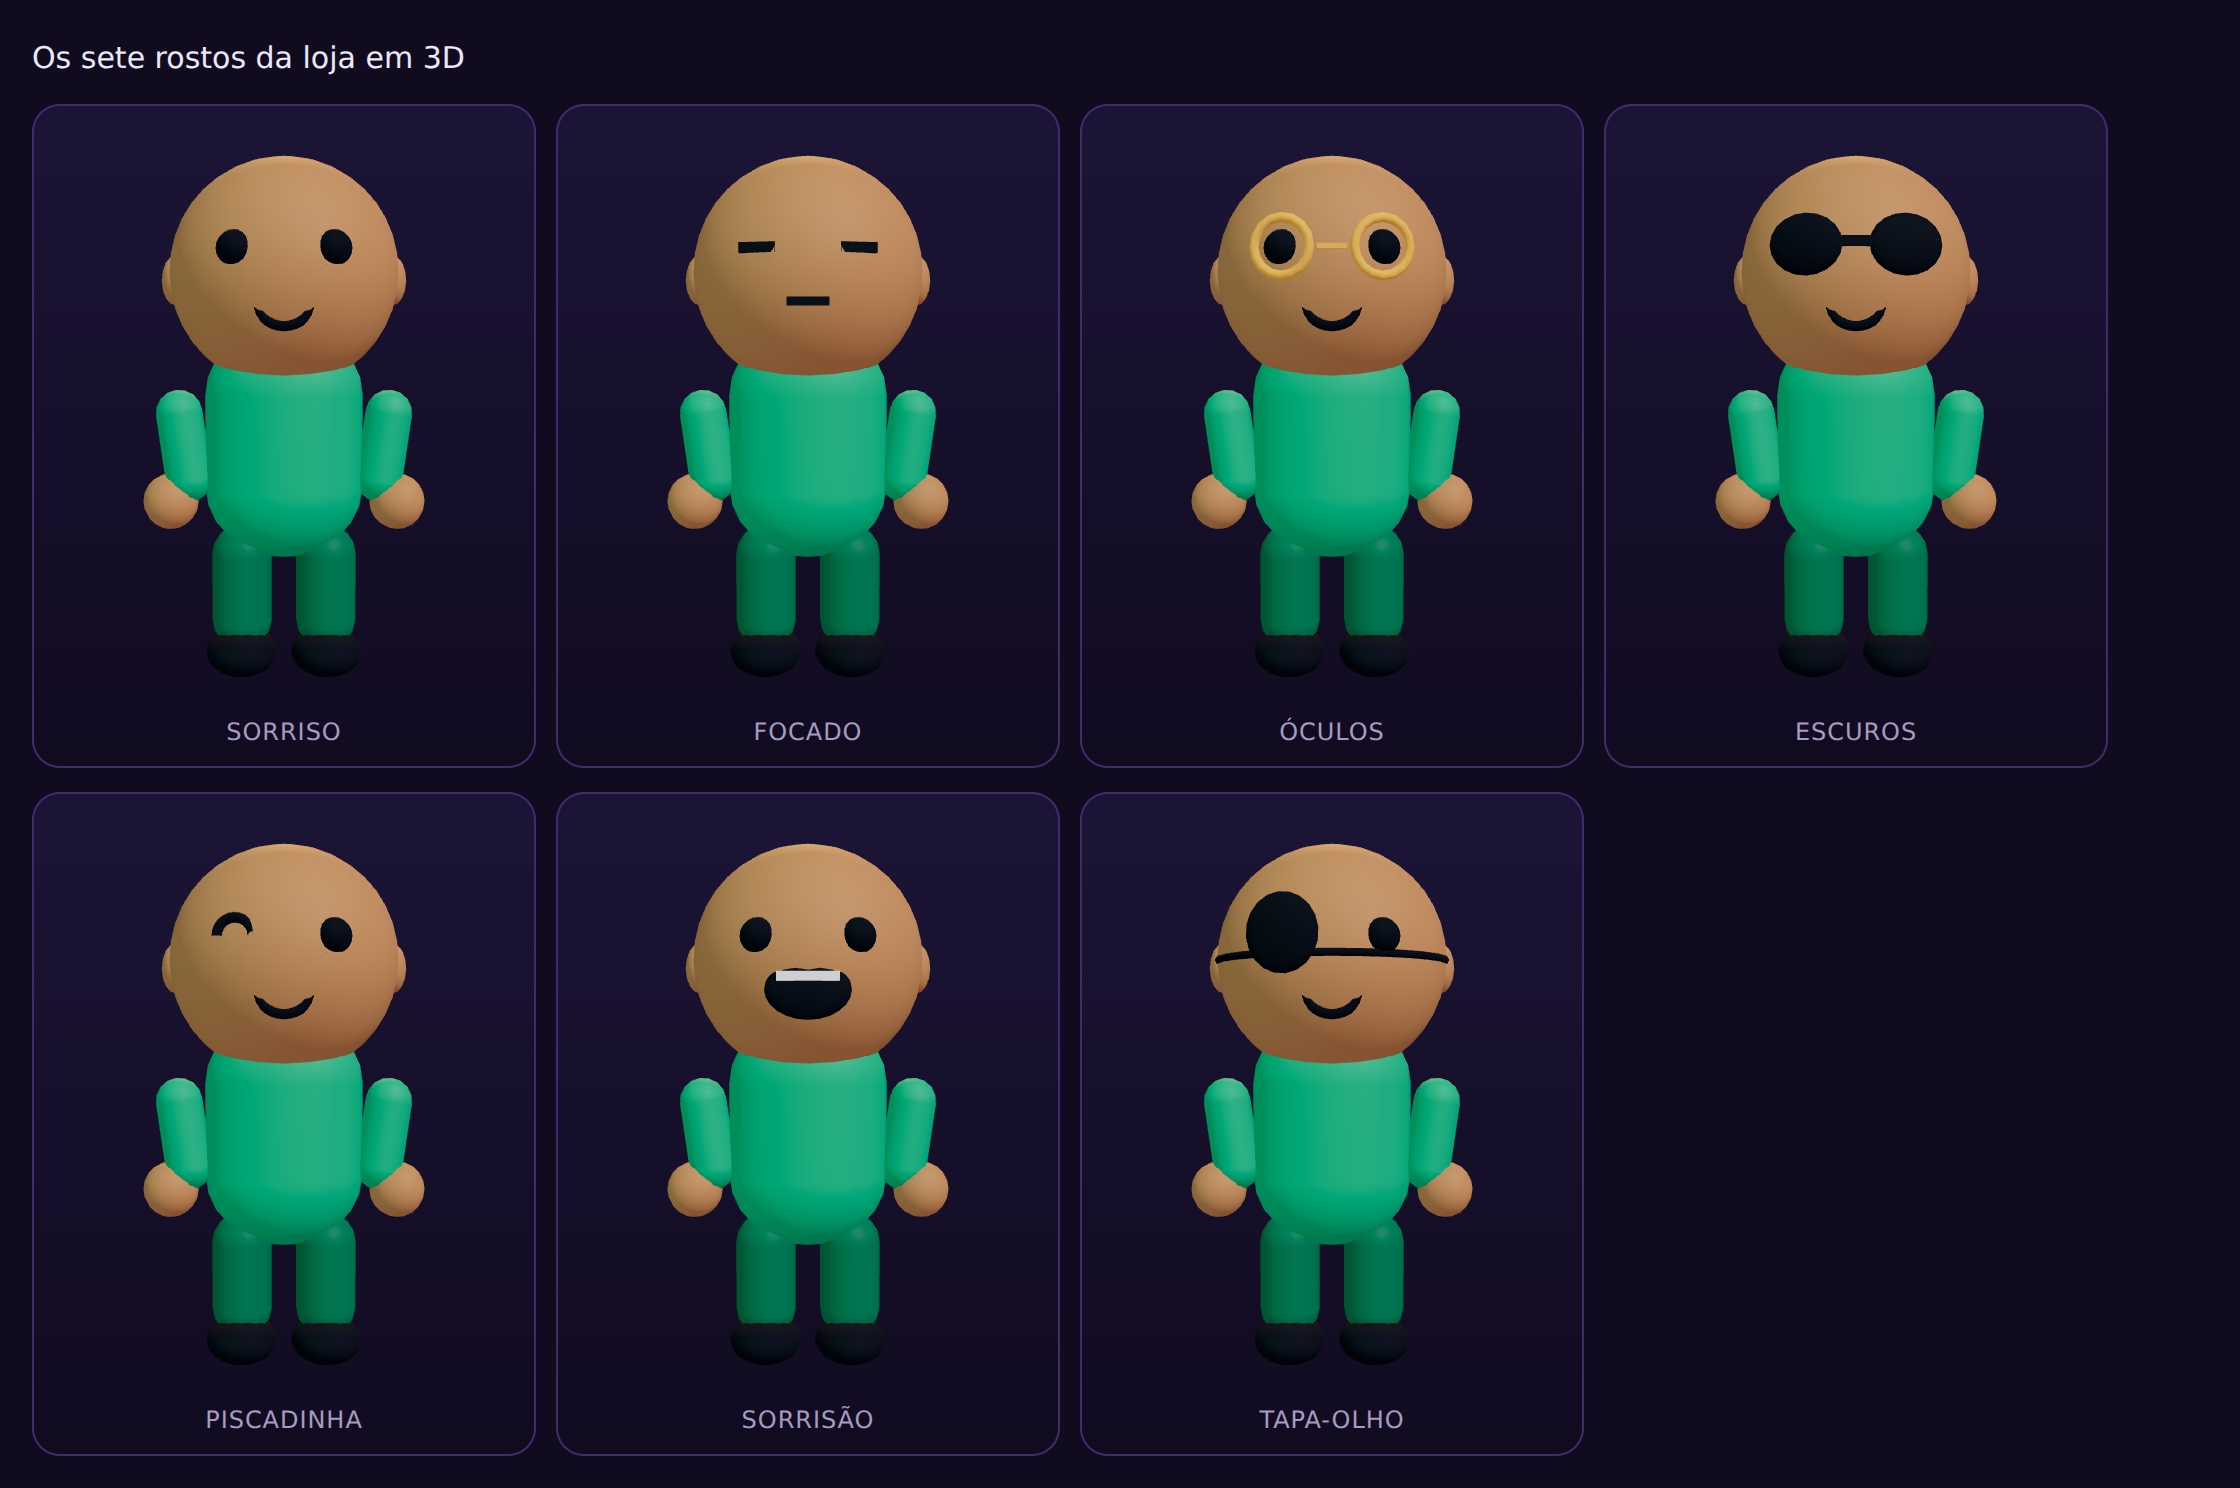
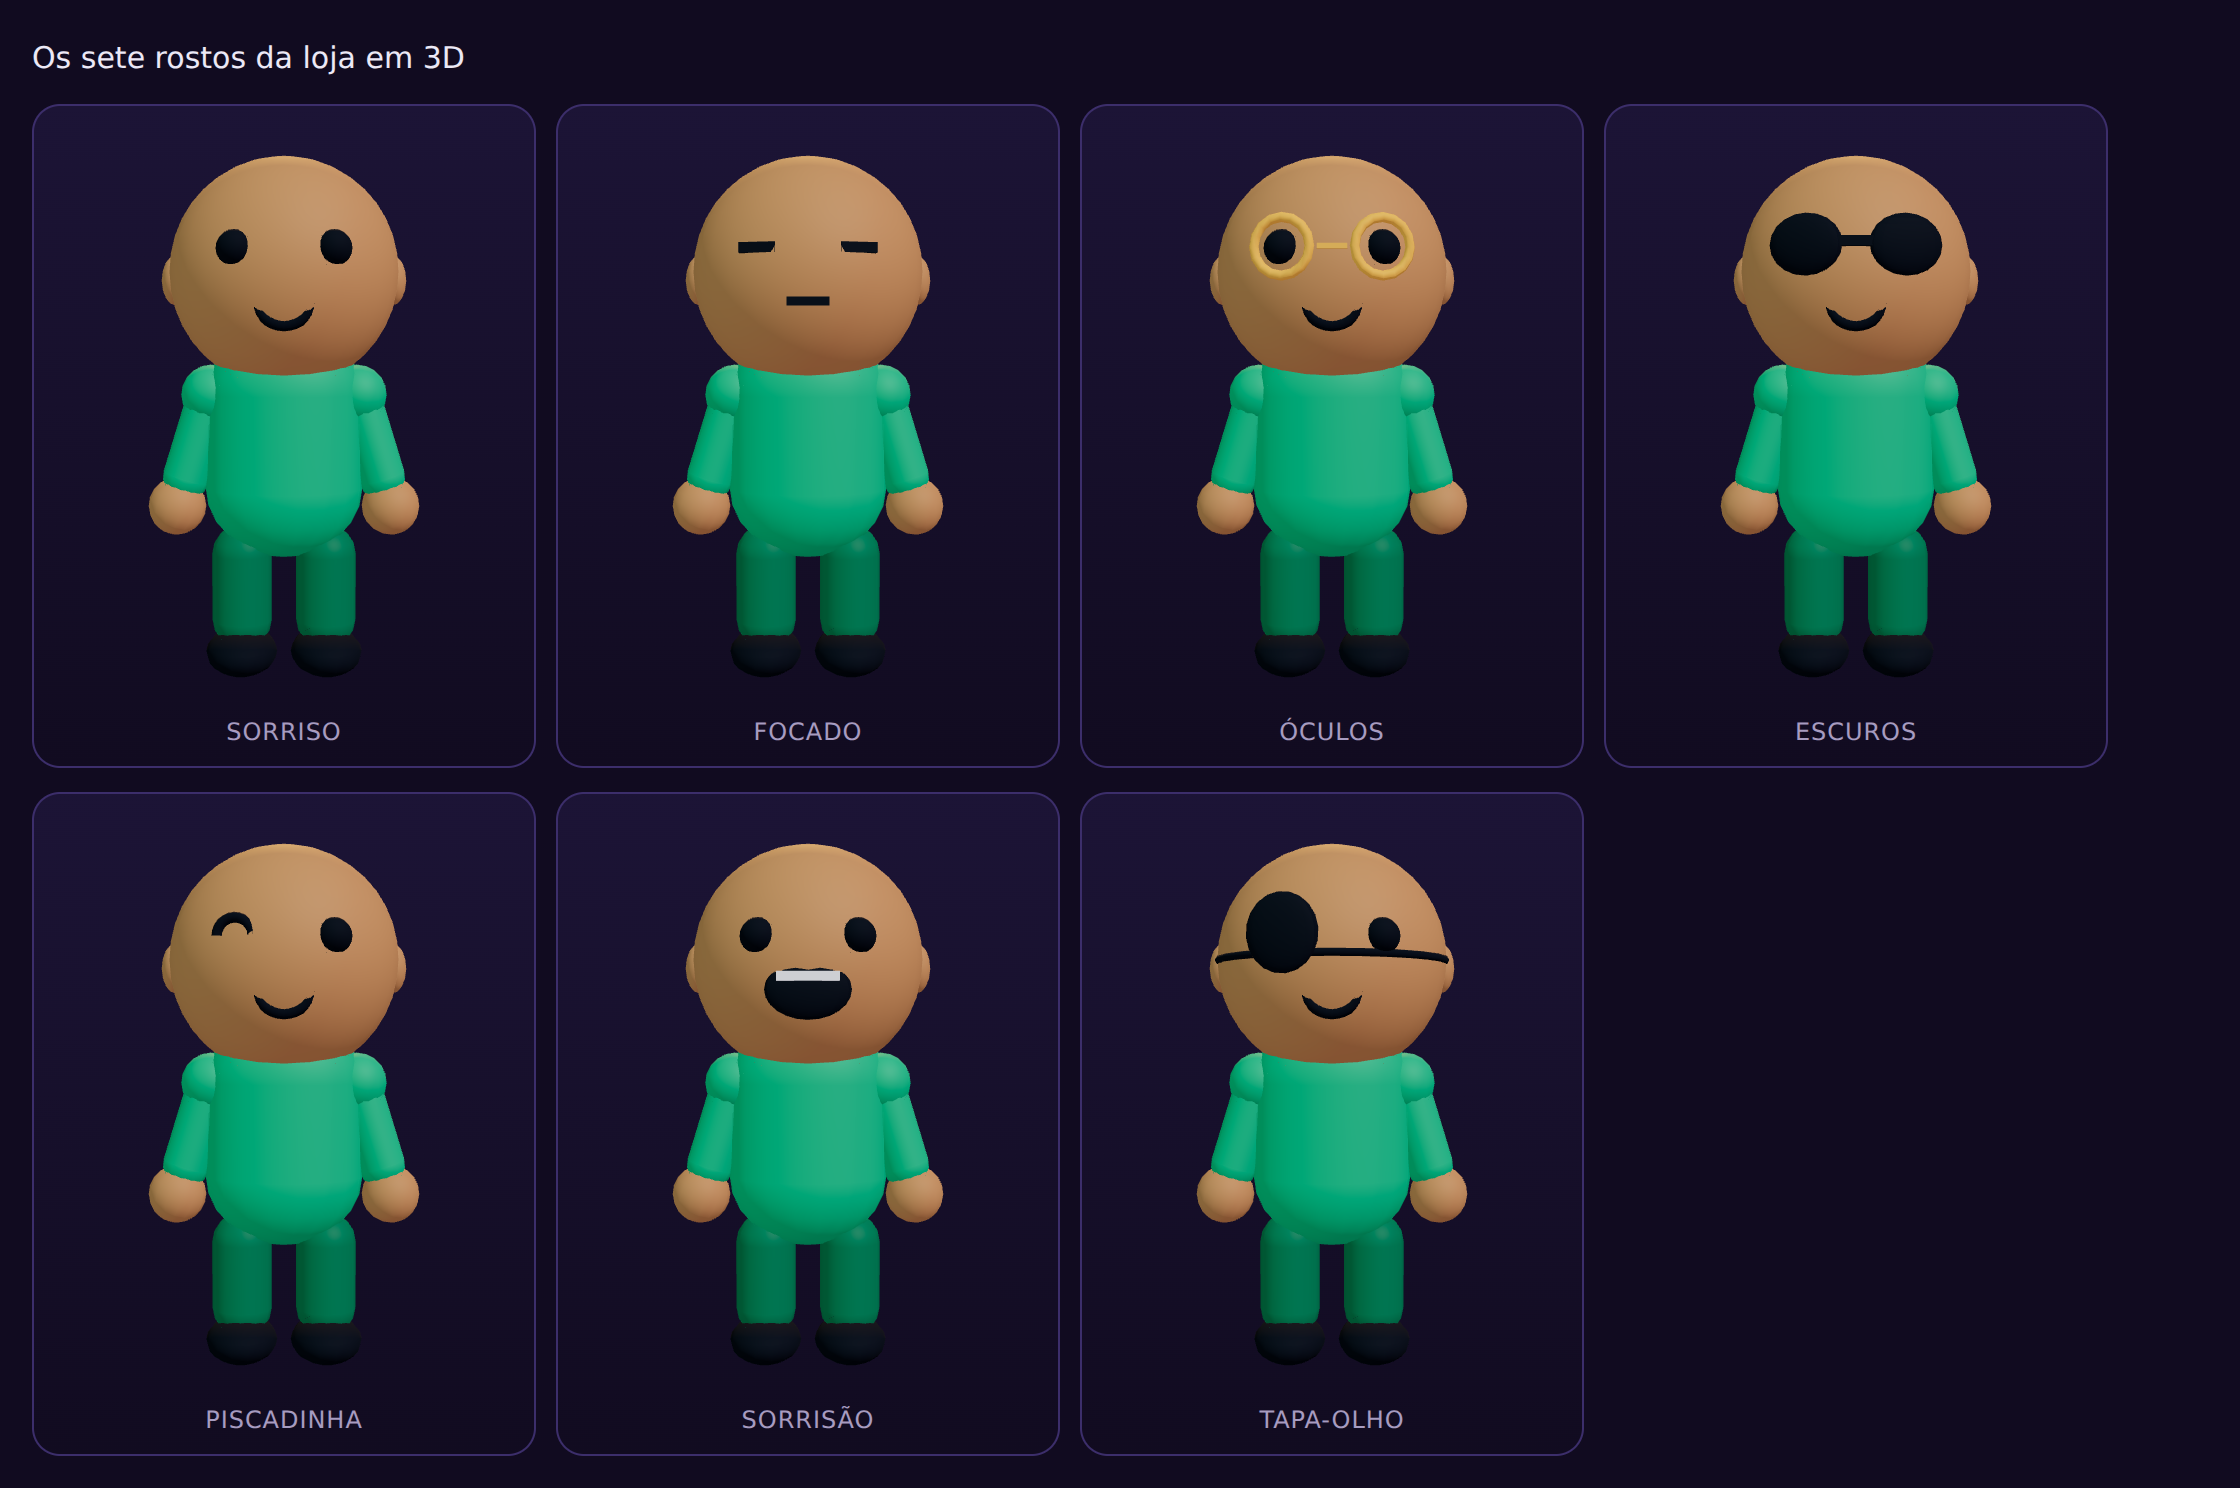
Fecha as juntas dos bracos e separa bone, viseira e capacete
Passada visual sobre a primeira versao do personagem, referente a #9.

- Bracos viraram cadeia articulada a partir do ombro, com uma bola enfiada no
  tronco fechando a junta por sobreposicao. Antes a capsula flutuava ao lado
  do corpo e a mao pendurava mais longe ainda, com vao nos dois lados
- Viseira virou aro aberto de verdade, com o alto da cabeca a mostra, o que o
  bone nunca faz — as duas silhuetas agora se distinguem de longe
- Capacete virou casco fechado que desce alem da orelha, com abertura so na
  frente. Era meia-esfera rasa e lia como bone, o que nao justificava custar
  o dobro na loja

Bone, viseira e capacete sao itens pagos e separados: silhuetas parecidas
fariam quem compra o segundo sentir que comprou o mesmo.

A aba do bone ainda esta em ajuste — nesta versao ela cobre os olhos demais.

Claude-Session: https://claude.ai/code/session_01Nko3ctY1rBK7riJFu5nmqe

diff --git a/src/components/three/Chapeus.tsx b/src/components/three/Chapeus.tsx
@@ -99,14 +99,16 @@ function MeiaAba({
 function Bone({ mats }: { mats: Materiais }) {
   return (
     <group>
-      <Copa raio={R_CABECA * 1.04} abertura={Math.PI * 0.45} material={mats.detalhe} y={0.01} />
+      <Copa raio={R_CABECA * 1.05} abertura={Math.PI * 0.48} material={mats.detalhe} y={0.01} />
+      {/* aba estreita e quase horizontal: sai da copa e para acima dos olhos */}
       <MeiaAba
-        raio={R_CABECA * 0.96}
-        espessura={0.06}
+        raio={R_CABECA * 0.62}
+        espessura={0.055}
         material={mats.detalheEscuro}
-        y={Y_TESTA}
-        z={0.08}
-        escalaZ={1.2}
+        y={0.22}
+        z={0.06}
+        inclinacao={0.1}
+        escalaZ={2.1}
       />
       <mesh position={[0, R_CABECA * 0.98, 0]} material={mats.detalheEscuro}>
         <sphereGeometry args={[0.05, 10, 8]} />
@@ -191,38 +193,69 @@ function Bucket({ mats }: { mats: Materiais }) {
 function Viseira({ mats }: { mats: Materiais }) {
   return (
     <group>
-      <mesh position={[0, Y_TESTA + 0.07, 0]} material={mats.detalhe}>
-        <cylinderGeometry args={[R_CABECA * 1.03, R_CABECA * 1.03, 0.15, 24, 1, true]} />
+      {/* aro aberto: o alto da cabeça fica à mostra, essa é a graça da viseira */}
+      <mesh position={[0, Y_TESTA + 0.06, 0]} material={mats.detalhe}>
+        <cylinderGeometry args={[R_CABECA * 1.02, R_CABECA * 1.05, 0.14, 24, 1, true]} />
       </mesh>
       <MeiaAba
-        raio={R_CABECA * 1.12}
-        espessura={0.055}
+        raio={R_CABECA * 0.9}
+        espessura={0.05}
         material={mats.detalheEscuro}
-        y={Y_TESTA + 0.02}
-        z={0.05}
-        inclinacao={0.18}
-        escalaZ={1.05}
+        y={Y_TESTA + 0.04}
+        z={0.08}
+        inclinacao={0.12}
+        escalaZ={1.4}
       />
     </group>
   );
 }
 
-/** Capacete: casco fechado, crista central na cor da roupa e aro na borda. */
+/**
+ * Capacete: casco fechado que desce até a altura da orelha atrás e dos lados,
+ * com abertura para o rosto na frente — silhueta bem mais envolvente que a do
+ * boné. Crista central na cor da roupa e aro na borda.
+ */
 function Capacete({ mats }: { mats: Materiais }) {
-  const raio = R_CABECA * 1.09;
-  const abertura = Math.PI * 0.41;
-  const yAro = raio * Math.cos(abertura);
+  const raio = R_CABECA * 1.1;
+  const cascoAte = Math.PI * 0.62; // atrás e dos lados: passa da orelha
+  const frenteAte = Math.PI * 0.4; // na frente: para acima dos olhos
+  const yAro = raio * Math.cos(cascoAte);
+  const yAroFrente = raio * Math.cos(frenteAte);
+
   return (
     <group>
-      <Copa raio={raio} abertura={abertura} material={mats.detalhe} />
+      {/* casco: três quartos da volta, descendo fundo */}
+      <mesh material={mats.detalhe}>
+        <sphereGeometry
+          args={[raio, 26, 16, Math.PI * 0.8, Math.PI * 1.4, 0, cascoAte]}
+        />
+      </mesh>
+      {/* testeira: o quarto da frente para na altura da sobrancelha */}
+      <mesh material={mats.detalhe}>
+        <sphereGeometry
+          args={[raio, 16, 12, Math.PI * 0.2, Math.PI * 0.6, 0, frenteAte]}
+        />
+      </mesh>
+
+      {/* crista, da testa à nuca */}
       <group rotation={[0, Math.PI / 2, 0]}>
-        <mesh rotation={[0, 0, Math.PI * 0.22]} scale={[1, 1.03, 1]} material={mats.roupa}>
-          <torusGeometry args={[raio * 0.99, 0.08, 8, 22, Math.PI * 0.58]} />
+        <mesh rotation={[0, 0, Math.PI * 0.2]} scale={[1, 1.02, 1]} material={mats.roupa}>
+          <torusGeometry args={[raio * 1.01, 0.1, 8, 22, Math.PI * 0.62]} />
         </mesh>
       </group>
-      <mesh position={[0, yAro, 0]} rotation={[Math.PI / 2, 0, 0]} material={mats.detalheEscuro}>
-        <torusGeometry args={[raio * 0.92, 0.055, 8, 24]} />
-      </mesh>
+
+      {/* aro da borda funda, acompanhando os três quartos do casco */}
+      <group position={[0, yAro, 0]} rotation={[Math.PI / 2, 0, 0]}>
+        <mesh rotation={[0, 0, Math.PI * 0.8]} material={mats.detalheEscuro}>
+          <torusGeometry args={[raio * Math.sin(cascoAte), 0.05, 6, 26, Math.PI * 1.4]} />
+        </mesh>
+      </group>
+      {/* aro da testeira */}
+      <group position={[0, yAroFrente, 0]} rotation={[Math.PI / 2, 0, 0]}>
+        <mesh rotation={[0, 0, Math.PI * 0.2]} material={mats.detalheEscuro}>
+          <torusGeometry args={[raio * Math.sin(frenteAte), 0.05, 6, 18, Math.PI * 0.6]} />
+        </mesh>
+      </group>
     </group>
   );
 }

diff --git a/src/components/three/Personagem.tsx b/src/components/three/Personagem.tsx
@@ -84,17 +84,27 @@ export default function Personagem({
           <cylinderGeometry args={[0.15, 0.17, 0.16, 14]} />
         </mesh>
 
-        {/* braços: cápsula na cor da roupa e mão redonda */}
+        {/* braços: giram no ombro, e ombro, braço e mão se encostam sem vão */}
         {[
           { lado: -1, ref: bracoEsq },
           { lado: 1, ref: bracoDir },
         ].map(({ lado, ref }) => (
-          <group key={lado} ref={ref} position={[lado * 0.42, 1.22, 0]}>
-            <mesh position={[lado * 0.03, -0.2, 0]} rotation={[0, 0, lado * -0.14]} material={mats.roupa}>
-              <capsuleGeometry args={[0.105, 0.3, 4, 12]} />
+          <group
+            key={lado}
+            ref={ref}
+            position={[lado * 0.32, 1.27, 0]}
+            rotation={[0, 0, lado * 0.3]}
+          >
+            {/* bola do ombro, enfiada no tronco para fechar a junta */}
+            <mesh position={[0, -0.02, 0]} material={mats.roupa}>
+              <sphereGeometry args={[0.135, 14, 10]} />
             </mesh>
-            <mesh position={[lado * 0.09, -0.45, 0]} material={mats.pele}>
-              <sphereGeometry args={[0.125, 14, 10]} />
+            <mesh position={[0, -0.24, 0]} material={mats.roupa}>
+              <capsuleGeometry args={[0.105, 0.34, 4, 12]} />
+            </mesh>
+            {/* a mão encaixa na ponta da cápsula, com sobreposição */}
+            <mesh position={[0, -0.545, 0]} material={mats.pele}>
+              <sphereGeometry args={[0.13, 14, 10]} />
             </mesh>
           </group>
         ))}
